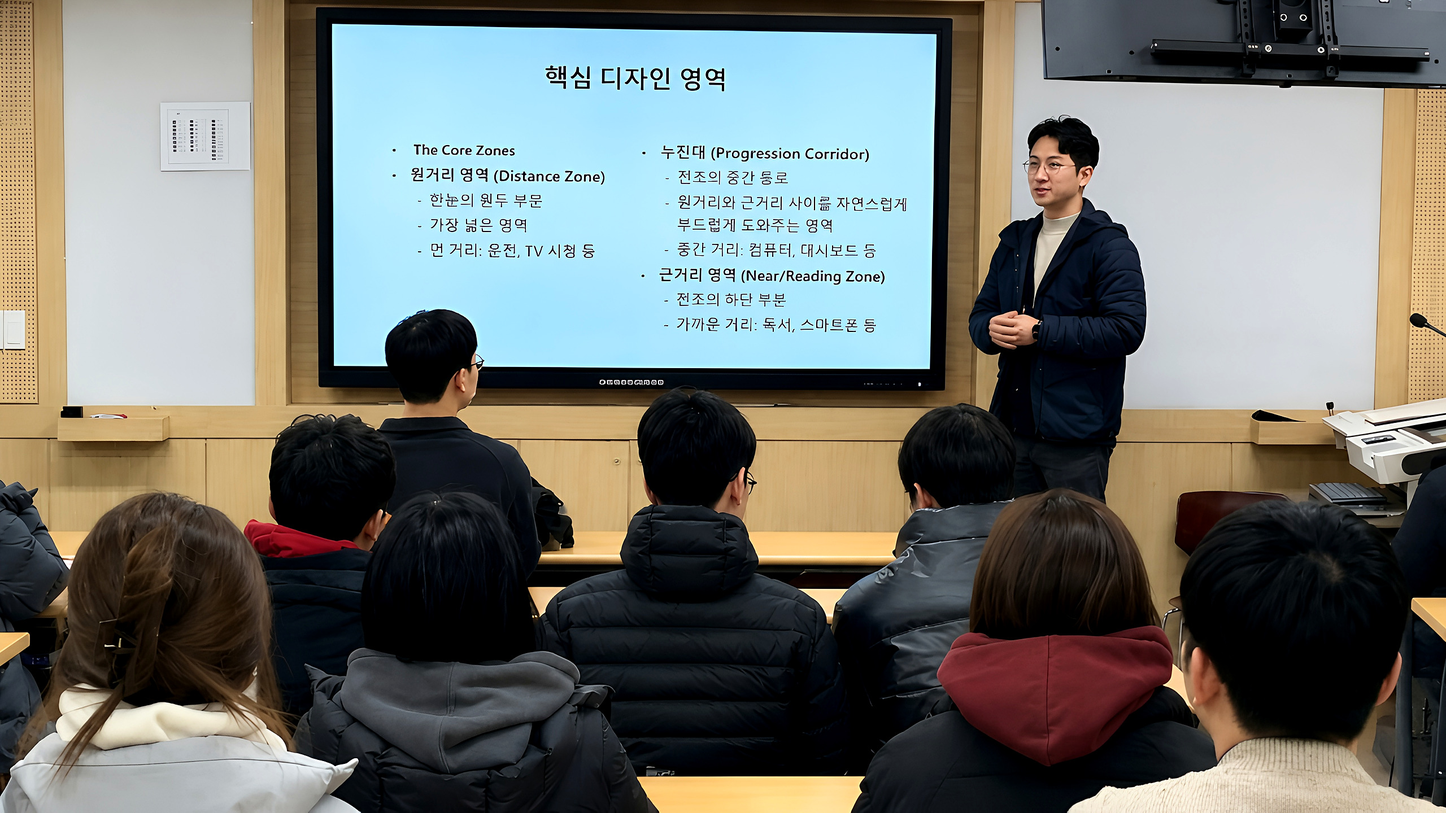
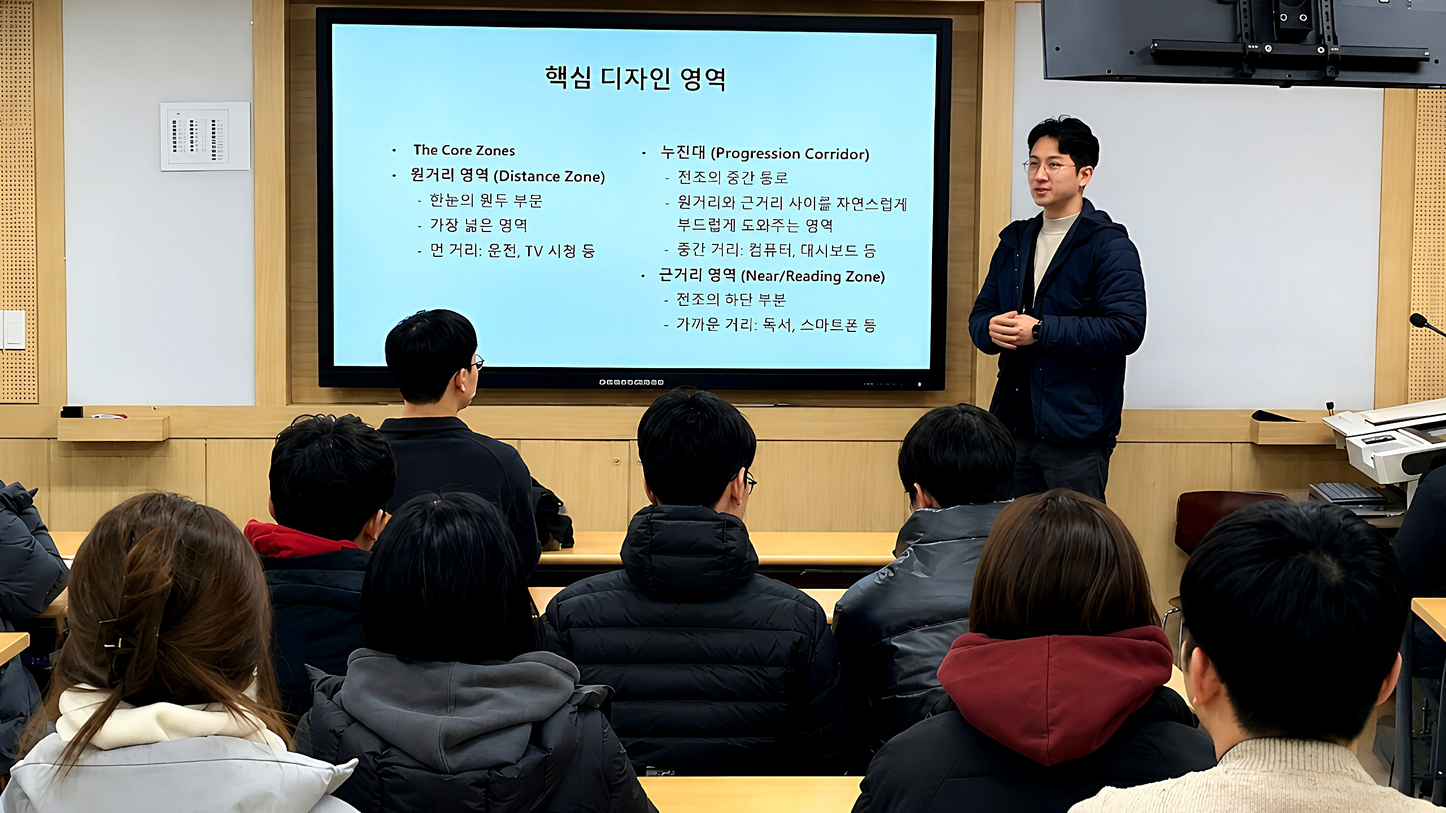
fix: 전체 이미지 품질 개선 + 캐시 무효화
Hero 이미지:
- hero-bg.jpg / hero-bg2.jpg: 얼굴 감지(Haar cascade) 기반 스마트 처리
  눈/얼굴 영역은 mild 처리, 배경만 강한 언샤프 마스킹 적용
  → 강의자 눈이 부자연스럽게 보이는 문제 해결

서비스 이미지:
- services-progressive.jpg: 워터마크 없는 이미지로 교체 (안경사 조성인 워터마크 완전 제거)
- services-fitting.jpg: 밝기 대폭 개선 (mean 46→69, 과도하게 어두운 문제 해결)

캐시 무효화:
- 전체 13개 HTML: css/common.css?v=20260617 → v=20260617b
- 변경된 이미지 src에 ?v=2 쿼리스트링 추가
  (hero-bg.jpg, hero-bg2.jpg, services-progressive.jpg, services-fitting.jpg)

diff --git a/index.html b/index.html
@@ -9,7 +9,7 @@
 <title>조성인 안경원 — Clinical Precision Optical Care | 대전</title>
 <meta name="description" content="20년 임상 경력의 안경사 조성인이 직접 문진부터 피팅까지 책임지는 대전 프리미엄 임상 안경원. ZEISS 정밀 장비, 누진다초점 전문."/>
 <link rel="icon" href="favicon.ico"/>
-<link rel="stylesheet" href="css/common.css?v=20260617"/>
+<link rel="stylesheet" href="css/common.css?v=20260617b"/>
 <style>
 
 /* ══════════════════════════════════════
@@ -947,13 +947,13 @@
   <div class="hero-bg">
     <!-- 슬라이드 1: lecture-2 (강의자 우측 클로즈업) -->
     <div class="hero-slide">
-      <img src="img/hero-bg.jpg"
+      <img src="img/hero-bg.jpg?v=2"
            alt="안경사 조성인 — 대전보건대학교 특강 강의 장면"
            loading="eager" fetchpriority="high"/>
     </div>
     <!-- 슬라이드 2: lecture-1 (강의실 전경 + 청중) -->
     <div class="hero-slide">
-      <img src="img/hero-bg2.jpg"
+      <img src="img/hero-bg2.jpg?v=2"
            alt="안경사 조성인 — 주변부 왜곡 강의 전경"
            loading="eager"/>
     </div>

diff --git a/services.html b/services.html
@@ -9,7 +9,7 @@
 <title>전문 분야 — 조성인 안경원</title>
 <meta name="description" content="정밀검안, 누진다초점, 고도수 안경, 성장기 근시 관리, 안질환 보조, 정밀 피팅. 대전 조성인 안경원의 6가지 전문 분야를 소개합니다."/>
 <link rel="icon" href="favicon.ico"/>
-<link rel="stylesheet" href="css/common.css?v=20260617"/>
+<link rel="stylesheet" href="css/common.css?v=20260617b"/>
 <style>
 /* ── 분야 탭 네비게이션 ── */
 .svc-nav {
@@ -376,7 +376,7 @@
         </div>
       </div>
       <div class="svc-img-wrap">
-        <img src="img/services-progressive.jpg" alt="ZEISS 누진다초점 안경"/>
+        <img src="img/services-progressive.jpg?v=2" alt="ZEISS 누진다초점 안경"/>
         <div class="svc-img-badge">02 · PROGRESSIVE</div>
       </div>
     </div>
@@ -616,7 +616,7 @@
         </div>
       </div>
       <div class="svc-img-wrap">
-        <img src="img/services-fitting.jpg" alt="정밀 피팅 과정"/>
+        <img src="img/services-fitting.jpg?v=2" alt="정밀 피팅 과정"/>
         <div class="svc-img-badge">06 · PRECISION FITTING</div>
       </div>
     </div>

diff --git a/about.html b/about.html
@@ -9,7 +9,7 @@
 <title>안경사 소개 — 조성인 안경원</title>
 <meta name="description" content="20년 임상 경력, 보건대학교 특강 교수, 옵토메트리스트 3기, 피팅 마스터 수료. 안경사 조성인을 소개합니다."/>
 <link rel="icon" href="favicon.ico"/>
-<link rel="stylesheet" href="css/common.css?v=20260617"/>
+<link rel="stylesheet" href="css/common.css?v=20260617b"/>
 <style>
 
 /* ══════════════════════════════════════

diff --git a/eq-trial.html b/eq-trial.html
@@ -9,7 +9,7 @@
 <title>근난시 통합 트라이얼 렌즈 — 조성인 안경원</title>
 <meta name="description" content="근거리·난시·누진 처방을 제작 전에 실제로 체험합니다. 조성인 안경원의 통합 트라이얼 렌즈 시스템으로 부적응 위험을 선제적으로 차단합니다."/>
 <link rel="icon" href="favicon.ico"/>
-<link rel="stylesheet" href="css/common.css?v=20260617"/>
+<link rel="stylesheet" href="css/common.css?v=20260617b"/>
 <style>
 /* ── Hero ── */
 .eq-hero {

diff --git a/svc-fitting.html b/svc-fitting.html
@@ -9,7 +9,7 @@
 <title>맞춤형 피팅 — 조성인 안경원</title>
 <meta name="description" content="완성 안경이 얼굴에 정확히 맞는 그날까지. 3D 피팅 파라미터 측정, 코받침·다리 정밀 조형, 완성 후 재방문 관리까지 조성인 안경원의 맞춤형 피팅 서비스."/>
 <link rel="icon" href="favicon.ico"/>
-<link rel="stylesheet" href="css/common.css?v=20260617"/>
+<link rel="stylesheet" href="css/common.css?v=20260617b"/>
 <style>
 /* ── Hero ── */
 .svc-hero {

diff --git a/cases.html b/cases.html
@@ -9,7 +9,7 @@
 <title>Case Studies — 조성인 안경원</title>
 <meta name="description" content="누진다초점, 고도수, 어린이 근시, 프리즘 교정 등 조성인 안경원의 실제 제작·처방 사례를 소개합니다."/>
 <link rel="icon" href="favicon.ico"/>
-<link rel="stylesheet" href="css/common.css?v=20260617"/>
+<link rel="stylesheet" href="css/common.css?v=20260617b"/>
 <style>
 /* ── Case List ── */
 .case-list { display: flex; flex-direction: column; gap: 0; }

diff --git a/eq-zeiss.html b/eq-zeiss.html
@@ -9,7 +9,7 @@
 <title>ZEISS i.Profiler® plus — 조성인 안경원</title>
 <meta name="description" content="ZEISS i.Profiler® plus: 웨이브프론트 수차분석, 각막지형도, 동공측정을 단 한 번에. 대전 조성인 안경원의 플래그십 정밀 검사 장비를 소개합니다."/>
 <link rel="icon" href="favicon.ico"/>
-<link rel="stylesheet" href="css/common.css?v=20260617"/>
+<link rel="stylesheet" href="css/common.css?v=20260617b"/>
 <style>
 
 /* ── Hero ── */

diff --git a/svc-optometry.html b/svc-optometry.html
@@ -9,7 +9,7 @@
 <title>정밀검안 — 조성인 안경원</title>
 <meta name="description" content="단순 도수 측정이 아닌 시기능 종합 평가. ZEISS 웨이브프론트·양안시 기능·각막지형도를 포함한 조성인 안경원의 정밀 검안을 소개합니다."/>
 <link rel="icon" href="favicon.ico"/>
-<link rel="stylesheet" href="css/common.css?v=20260617"/>
+<link rel="stylesheet" href="css/common.css?v=20260617b"/>
 <style>
 /* ── Hero ── */
 .svc-hero {

diff --git a/svc-highpower.html b/svc-highpower.html
@@ -9,7 +9,7 @@
 <title>고도수 안경 — 조성인 안경원</title>
 <meta name="description" content="±6D 이상 고도근시·고도난시 정밀 맞춤 제작. 최소 두께·경량화·야간 수차 보정·광학중심 0.1mm 설정으로 고도수 안경을 완성합니다."/>
 <link rel="icon" href="favicon.ico"/>
-<link rel="stylesheet" href="css/common.css?v=20260617"/>
+<link rel="stylesheet" href="css/common.css?v=20260617b"/>
 <style>
 /* ── Hero ── */
 .svc-hero {

diff --git a/eq-experience.html b/eq-experience.html
@@ -9,7 +9,7 @@
 <title>체험형 시스템 — 조성인 안경원</title>
 <meta name="description" content="안경 처방부터 피팅까지 직접 체험하는 조성인 안경원의 체험형 케어 시스템. 데이터+체험으로 완성되는 정밀 처방을 경험하세요."/>
 <link rel="icon" href="favicon.ico"/>
-<link rel="stylesheet" href="css/common.css?v=20260617"/>
+<link rel="stylesheet" href="css/common.css?v=20260617b"/>
 <style>
 /* ── Hero ── */
 .eq-hero {

diff --git a/svc-progressive.html b/svc-progressive.html
@@ -9,7 +9,7 @@
 <title>누진다초점 안경 — 조성인 안경원</title>
 <meta name="description" content="부적응률을 최소화하는 누진다초점 처방. 트라이얼 체험·3D 피팅·개인 맞춤 설계로 어지러움 없는 누진안경을 제공합니다."/>
 <link rel="icon" href="favicon.ico"/>
-<link rel="stylesheet" href="css/common.css?v=20260617"/>
+<link rel="stylesheet" href="css/common.css?v=20260617b"/>
 <style>
 /* ── Hero ── */
 .svc-hero {

diff --git a/equipment.html b/equipment.html
@@ -9,7 +9,7 @@
 <title>첨단 장비 — 조성인 안경원</title>
 <meta name="description" content="ZEISS i.Profiler, 사르망 트라이얼 렌즈, 정밀 피팅 시스템. 대전 조성인 안경원이 보유한 전문 장비를 소개합니다."/>
 <link rel="icon" href="favicon.ico"/>
-<link rel="stylesheet" href="css/common.css?v=20260617"/>
+<link rel="stylesheet" href="css/common.css?v=20260617b"/>
 <style>
 /* ── Equipment Cards ── */
 .eq-grid {
